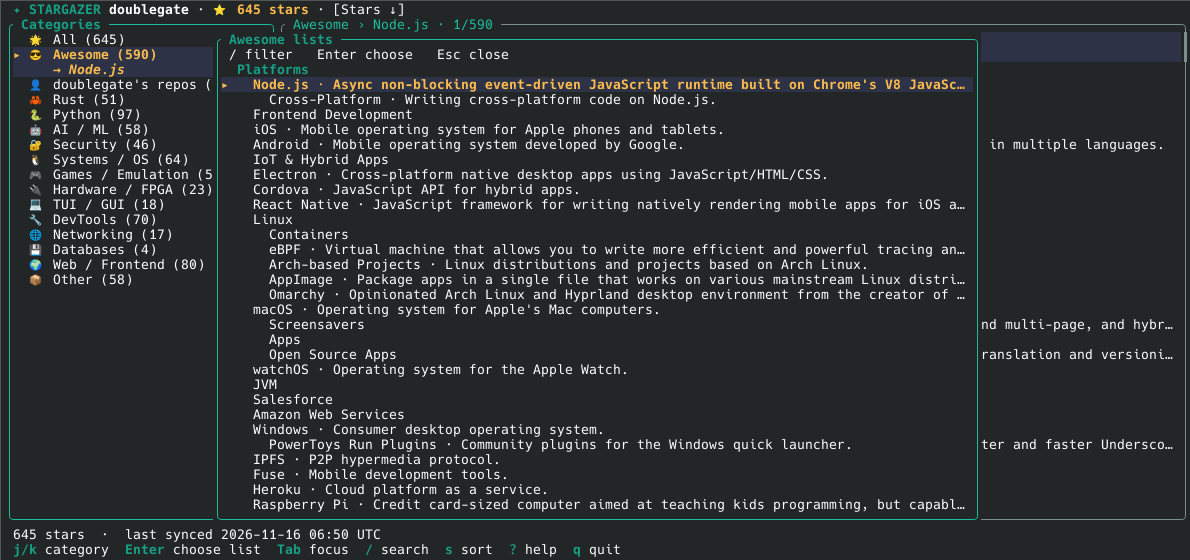
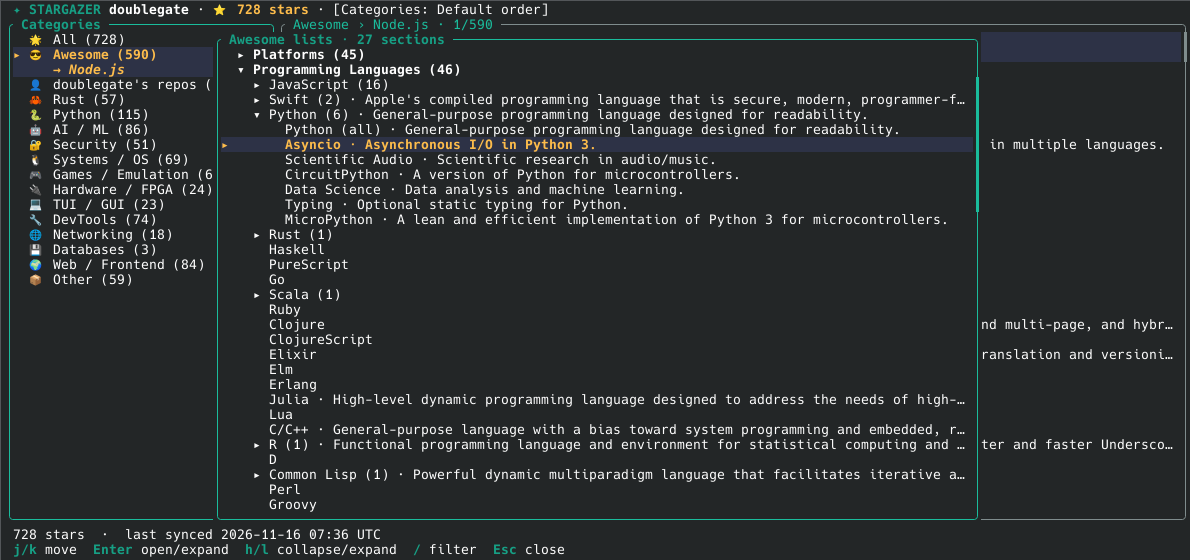
docs: document v0.3.1; bump to 0.3.1
- README: the Awesome picker as a collapsible tree (sections first,
  Enter/→/click to expand, "Python (all)" opens a parent list, ← to
  collapse or go up, the filter and how clearing it returns to the
  tree); pop-up mouse support; the title bar showing the focused
  pane's sort; the keybinding row for the picker.
- Help overlay: the picker keys and that the mouse works in pop-ups.
- CHANGELOG 0.3.1: Changed (title bar sort, picker tree and styling),
  Added (pop-up mouse, Antigravity reviewer), Fixed (pop-up border next
  to wide icons, and the five findings from the Codex reviews of PRs #2
  and #7).
- assets/screenshot-awesome-picker.png recaptured showing the tree
  (Programming Languages > Python open) after the sync finished;
  provenance noted in assets/README.md.
- Version 0.3.1.

Verified: fmt, clippy -D warnings and all 174 tests pass.

diff --git a/src/ui.rs b/src/ui.rs
@@ -782,7 +782,10 @@ impl Ui {
             ("Tab / Shift-Tab", "cycle focus"),
             ("h / Left, Right", "focus left / right"),
             ("Enter / o", "open repo in browser"),
-            ("Enter on Awesome", "choose an awesome list (/ filters it)"),
+            (
+                "Enter on Awesome",
+                "list picker: Enter/l expand, h collapse, / filter",
+            ),
             ("d", "toggle details + README pane"),
             ("/", "fuzzy search (Enter opens match, Esc clears)"),
             ("s", "cycle sort of the focused pane"),
@@ -793,7 +796,10 @@ impl Ui {
             ("u", "unstar selected repo (asks first)"),
             ("Ctrl-L", "redraw screen"),
             ("q / Ctrl-C", "quit"),
-            ("mouse", "wheel scrolls, click selects, click again opens"),
+            (
+                "mouse",
+                "wheel scrolls, click selects, click again opens (pop-ups too)",
+            ),
         ];
         let lines: Vec<Line> = KEYS
             .iter()

diff --git a/README.md b/README.md
@@ -50,7 +50,7 @@ searchable, and one keypress from your browser.
 
 | An awesome list (awesome-nodejs) with details | The awesome list picker |
 |---|---|
-| ![The Awesome row with the chosen list "Node.js" in italics beneath it; the repo pane lists awesome-nodejs entries with star counts and their section in the list, and the details pane shows the section, whether the repo is in your stars, and its README](assets/screenshot-awesome.png) | ![The Awesome lists picker: the Platforms section with Node.js and its Cross-Platform sub-list, then iOS, Android, the Linux group and more](assets/screenshot-awesome-picker.png) |
+| ![The Awesome row with the chosen list "Node.js" in italics beneath it; the repo pane lists awesome-nodejs entries with star counts and their section in the list, and the details pane shows the section, whether the repo is in your stars, and its README](assets/screenshot-awesome.png) | ![The Awesome lists picker as a collapsible tree: Platforms collapsed, Programming Languages open with Python expanded to show Python (all) and its sub-lists such as Asyncio and Typing, and other languages with their sub-list counts](assets/screenshot-awesome-picker.png) |
 
 ## Categories
 
@@ -190,8 +190,13 @@ stargazer export --sync                  # sync first
 
 The **Awesome** row, pinned second in the sidebar, browses the lists indexed by
 [sindresorhus/awesome](https://github.com/sindresorhus/awesome). With it selected, press
-`Enter` (or click it) to open the list picker: sections, lists and sub-lists, in the index's
-own order. Press `/` to filter the picker by name or description, then `Enter` to choose.
+`Enter` (or click it) to open the list picker, a collapsible tree in the index's own order.
+It opens with only the sections (Platforms, Programming Languages, ...); `Enter`, `→` or a
+click expands one to show its lists, and a list with sub-lists expands the same way. Inside it,
+the first row opens the list itself (`Python (all)`), followed by its sub-lists (Asyncio,
+Typing, ...). `←` collapses, or moves to the parent row. Press `/` to filter by name or
+description (every match is shown with its path; `Esc` clears the filter and returns to the
+tree as you left it). The picker remembers what was expanded and reopens on the chosen list.
 
 The chosen list appears under Awesome as `→ Node.js › Cross-Platform` (only while Awesome is
 selected), and its entries fill the repo pane. They work like your stars: search, the language,
@@ -225,7 +230,7 @@ reopen the list a minute later.
 | `PgUp` / `PgDn`, `Ctrl+U` / `Ctrl+D` | Page / half page through the repo list (README when details are focused) |
 | `g` / `Home`, `G` / `End` | Jump to the top / bottom of the repo list |
 | `Enter` / `o` | Open selected repo in browser |
-| `Enter` on Awesome | Choose an awesome list (`/` filters the picker) |
+| `Enter` on Awesome | Open the awesome list picker (`Enter`/`→` expand, `←` collapse, `/` filters) |
 | `/` | Search (`Enter` opens the selected match, `Esc` clears) |
 | `Esc` | Clear search, or close the details pane |
 | `d` | Toggle details + README pane |
@@ -240,7 +245,9 @@ reopen the list a minute later.
 | `q` / `Ctrl+C` | Quit |
 
 Mouse: the wheel scrolls the pane under the pointer; clicking selects, clicking the selected
-repo again opens it.
+repo again opens it. Pop-ups (the Awesome picker, the language picker, the unstar question)
+work the same way: the wheel moves the selection, a click selects and a second click
+activates; click `y unstar` or `n cancel` to answer; a click outside a pop-up closes it.
 
 ## Sort modes
 
@@ -260,7 +267,8 @@ The Categories pane (focus it with `←`) sorts independently of the repo list:
 5. **Starred ↓**: the category you starred something in most recently first
 
 All, Awesome and your own repos always stay at the top, in that order. The pane title shows
-the category sort unless it is the default.
+the category sort unless it is the default, and the title bar at the top shows the sort of the
+pane that has focus: `[Categories: Name A→Z]` with the sidebar focused, `[Stars ↓]` otherwise.
 
 ## Search
 

diff --git a/CHANGELOG.md b/CHANGELOG.md
@@ -6,6 +6,46 @@ All notable changes to this project are documented here. The format follows
 
 ## [Unreleased]
 
+## [0.3.1] - 2026-11-16
+
+### Changed
+
+- **The title bar shows the sort of the focused pane.** With the sidebar focused it reads
+  `[Categories: Name A→Z]`, otherwise the repo list's sort as before. In v0.3.0 it always
+  showed the repo list's sort, even after sorting the sidebar.
+- **The Awesome list picker is a collapsible tree.** It opens with only the sections; `Enter`,
+  `→` or a click expands a section into its lists and a list into its sub-lists, with the list
+  itself first (`Python (all)`). `←` collapses or moves to the parent. Filtering with `/` shows
+  every match with its path, and clearing it returns to the tree as you left it. The picker
+  remembers what was open and reopens on the chosen list.
+- **The pop-ups look like the rest of the app:** expander markers, counts, the same selection
+  and scrollbar as the panes, the filter in the status line like the main search, and the
+  pop-up's keys in the hint bar.
+
+### Added
+
+- **Mouse in pop-ups.** In the Awesome picker and the language picker the wheel moves the
+  selection, a click selects and a second click activates; the unstar question answers to a
+  click on `y unstar` or `n cancel`; a click outside any pop-up closes it.
+- **Antigravity PR reviewer** (CI): pull requests are reviewed by a self-hosted reviewer with a
+  StarGazer-specific style guide (`.github/agy-review.md`).
+
+### Fixed
+
+- A pop-up's left border could be missing on rows where a two-column icon sat just left of it
+  (the sidebar's emoji), leaving half an emoji where the border belongs.
+- Awesome lists: "List order" put a nested entry before its parent, and a repository listed
+  twice kept the later copy. Entries now follow the README.
+- Awesome lists: a transient GitHub error during a star-count lookup was remembered as
+  "repository missing" and not retried until a full refresh; only GitHub's not-found or
+  forbidden answer counts as missing now, and anything else is retried on the next open.
+- `--refresh` now also refreshes the awesome list restored at startup, as `r` does.
+- A cache without a recorded full sync (one carried over from v0.1) could postpone the periodic
+  full sync forever, because each incremental sync moved the date it was measured from. It now
+  gets one full sync, which sets the date.
+- `stargazer export` exported the cached account's stars even when `--user`,
+  `STARGAZER_USER` or the config asked for another account; it now syncs that account first.
+
 ## [0.3.0] - 2026-11-16
 
 ### Added
@@ -181,7 +221,8 @@ All notable changes to this project are documented here. The format follows
   open-in-browser.
 - 2026-10-26: dependency update `thiserror` 1 to 2 (#1).
 
-[Unreleased]: https://github.com/doublegate/StarGazer/compare/v0.3.0...HEAD
+[Unreleased]: https://github.com/doublegate/StarGazer/compare/v0.3.1...HEAD
+[0.3.1]: https://github.com/doublegate/StarGazer/compare/v0.3.0...v0.3.1
 [0.3.0]: https://github.com/doublegate/StarGazer/compare/v0.2.1...v0.3.0
 [0.2.1]: https://github.com/doublegate/StarGazer/compare/v0.2.0...v0.2.1
 [0.2.0]: https://github.com/doublegate/StarGazer/compare/a874e20...v0.2.0

diff --git a/assets/README.md b/assets/README.md
@@ -15,7 +15,7 @@ Images used by the project README, the GitHub repository page, and as project ic
 | `pack_ico.py` | Packs PNGs into a PNG-entry `.ico` | Hand-written; ImageMagick's own ICO output is ~30x larger |
 | `social-preview.png` | GitHub social preview, 1280x640, centered layout | The text-free right side of `banner.png` mirrored into a symmetric background; a solid navy center panel (opaque within 300 px of center, fading out by 520 px) keeps the text area free of artwork; `logo.svg` without its background; ImageMagick text |
 | `screenshot-{main,details,help}.png` | TUI screenshots (v0.2.0) | Konsole, captured with Spectacle and cropped with ImageMagick |
-| `screenshot-awesome{,-picker}.png` | Awesome list browser and picker (v0.3.0) | StarGazer in tmux, Konsole attached to the session so keys can be scripted with `tmux send-keys`; captured with `spectacle -a -b -n` and cropped to the terminal area |
+| `screenshot-awesome{,-picker}.png` | Awesome list browser (v0.3.0) and the collapsible picker (v0.3.1) | StarGazer in tmux, Konsole attached to the session so keys can be scripted with `tmux send-keys`; captured with `spectacle -a -b -n` and cropped to the terminal area |
 
 Palette: navy `#0b1020`, cyan `#22d3ee`, gold `#facc15`. Fonts: Noto Sans Bold (title),
 Noto Sans Mono Bold (tagline).
